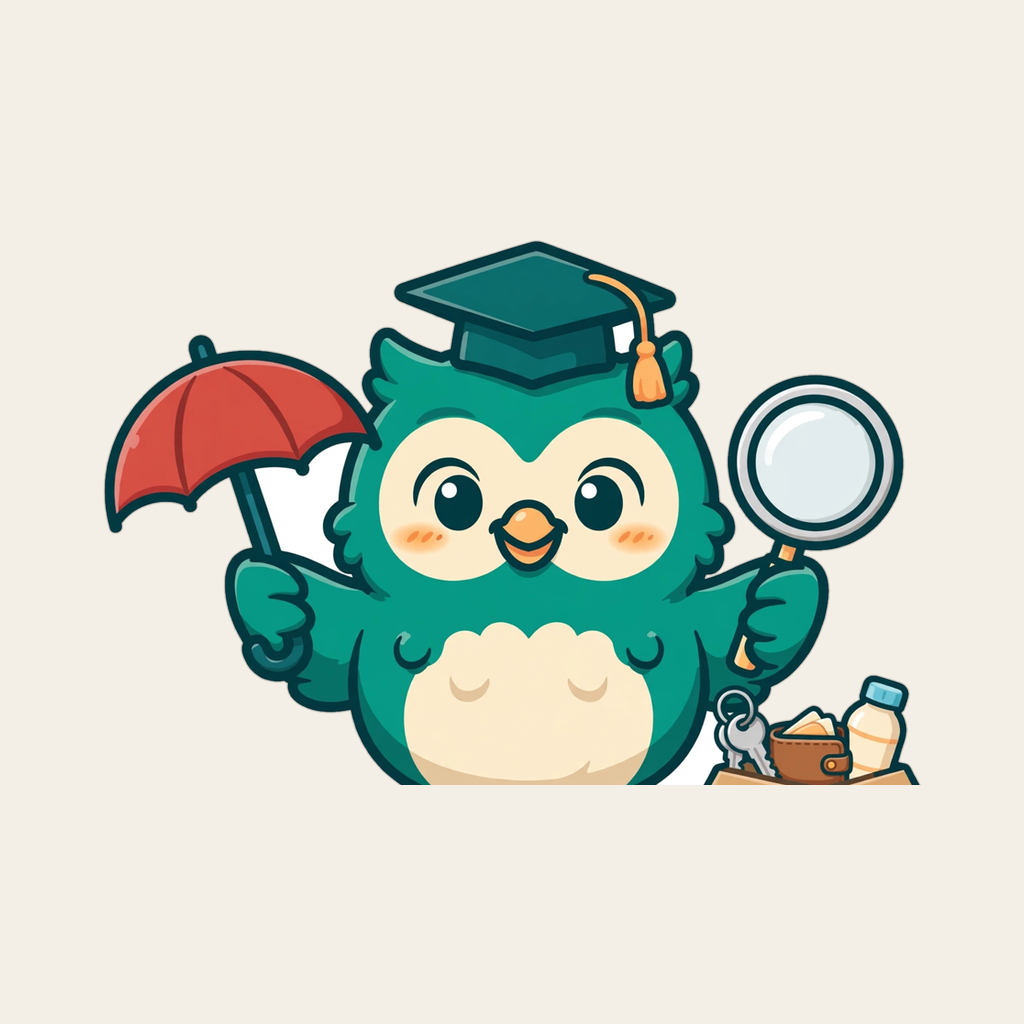
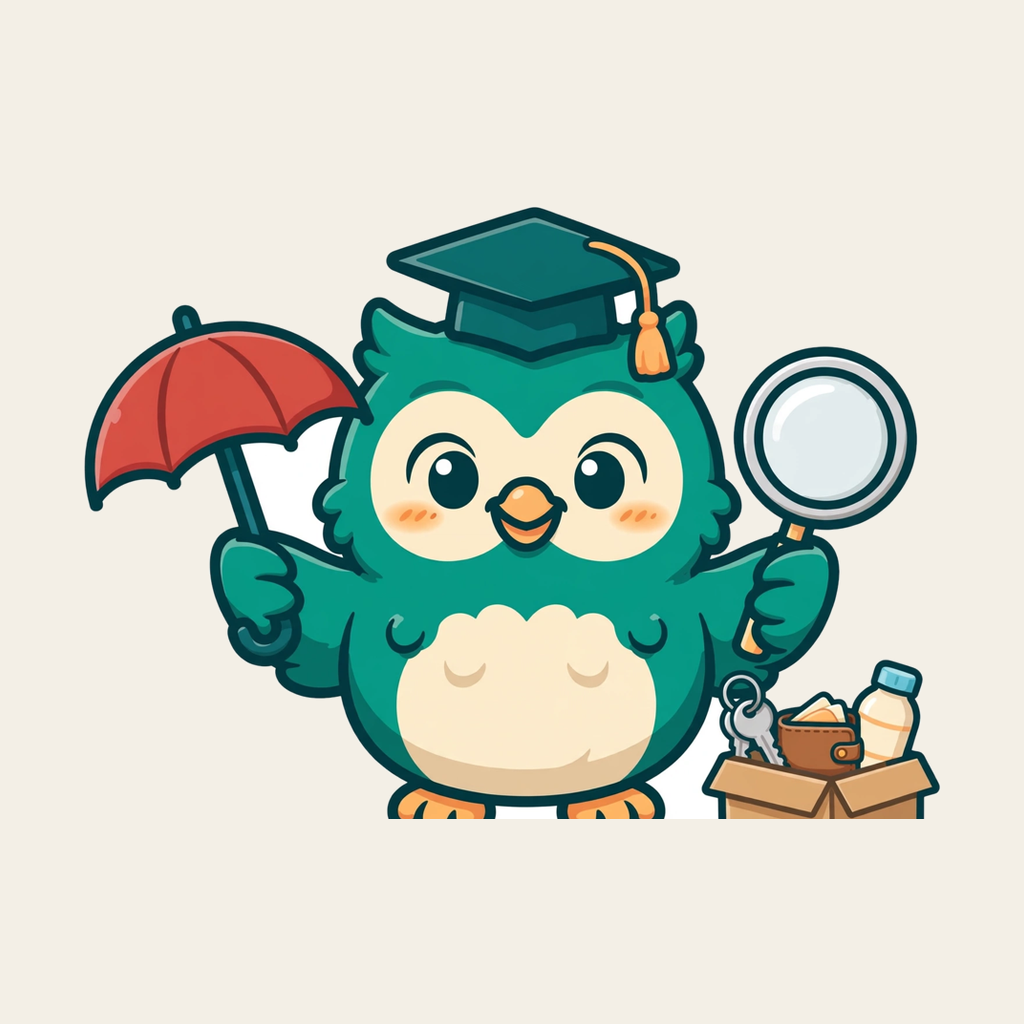
Perbaiki build v1.4.0 (duplikat kata adalah di set stopwords const) dan ikon maskot sekarang utuh (seluruh ilustrasi termasuk payung, kaca pembesar, kardus, dan kaki, diperkecil ke zona aman ikon adaptif)

Changed region(s): [[0.0625, 0.1875, 0.9375, 0.8125], [0.5312, 0.6562, 0.5938, 0.6875], [0.4375, 0.6562, 0.5, 0.6875]]

diff --git a/lib/cocok.dart b/lib/cocok.dart
@@ -16,7 +16,7 @@ const Set<String> kStopwords = {
   'antara', 'kepada', 'terhadap', 'sebagai', 'karena', 'namun', 'tapi',
   'lalu', 'kemudian', 'masih', 'lagi', 'sangat', 'sekali', 'lebih',
   'paling', 'para', 'setiap', 'tiap', 'bagi', 'tentang', 'seperti',
-  'yaitu', 'yakni', 'ialah', 'adalah', 'merupakan', 'dimana', 'kemana',
+  'yaitu', 'yakni', 'ialah', 'merupakan', 'dimana', 'kemana',
   'kapan', 'siapa', 'mengapa', 'bagaimana', 'berapa', 'mana', 'apa',
   'apakah', 'jika', 'kalau', 'bila', 'agar', 'supaya', 'hingga', 'sampai',
   'atas', 'bawah', 'luar', 'belakang', 'depan', 'samping', 'tengah',
